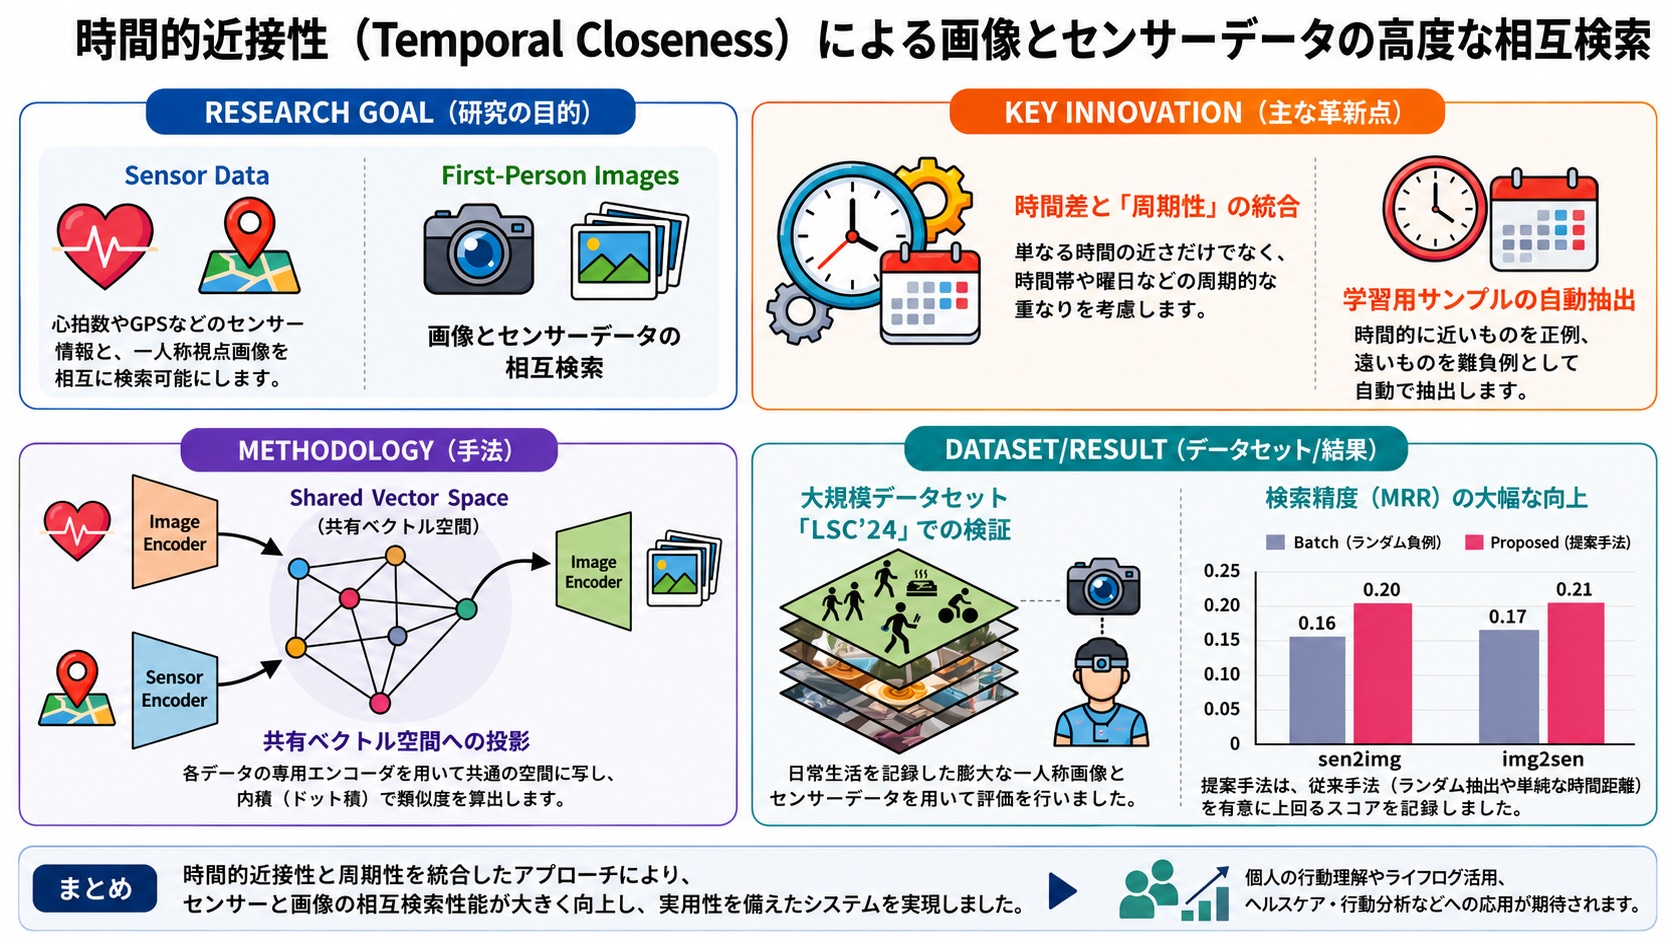
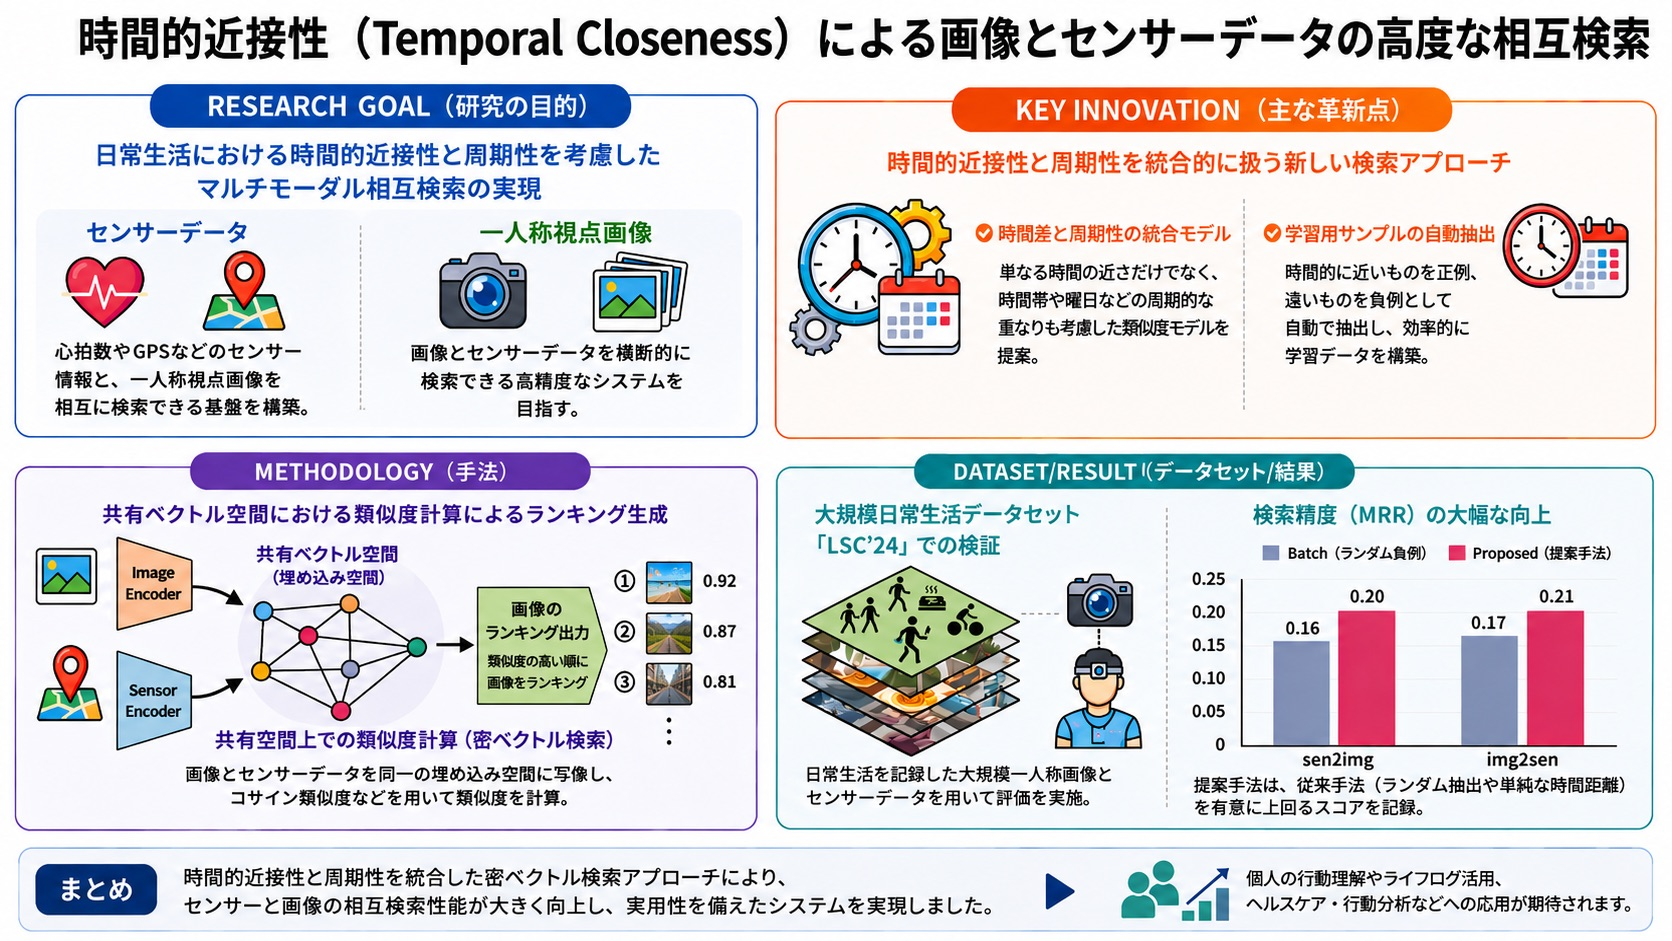
クロスモーダル検索の概要図を新版に差し替え

diff --git a/docs/research.md b/docs/research.md
@@ -47,7 +47,7 @@ Human behavior accumulates as multimodal data — collections of multiple data f
 
     We developed a technology that enables mutual retrieval between sensor data (e.g., heart rate and GPS) and first-person images. Training samples are automatically extracted based on temporal closeness, which integrates periodicity such as time of day and day of week, and each modality is projected into a shared vector space by dedicated encoders. On the large-scale lifelog dataset LSC'24, the proposed method significantly outperformed conventional approaches in retrieval accuracy (MRR). (Published at MMM2025)
 
-    ![時間的近接性によるクロスモーダル検索の概要図](img/research_crossmodal_retrieval.jpg)
+    ![時間的近接性によるクロスモーダル検索の概要図](img/research_crossmodal_retrieval.jpg?v=2)
 
     <small>図は論文の内容をもとにNotebookLMとChatGPTにより生成<br>The figure was generated with NotebookLM and ChatGPT based on the original paper.</small>
 
